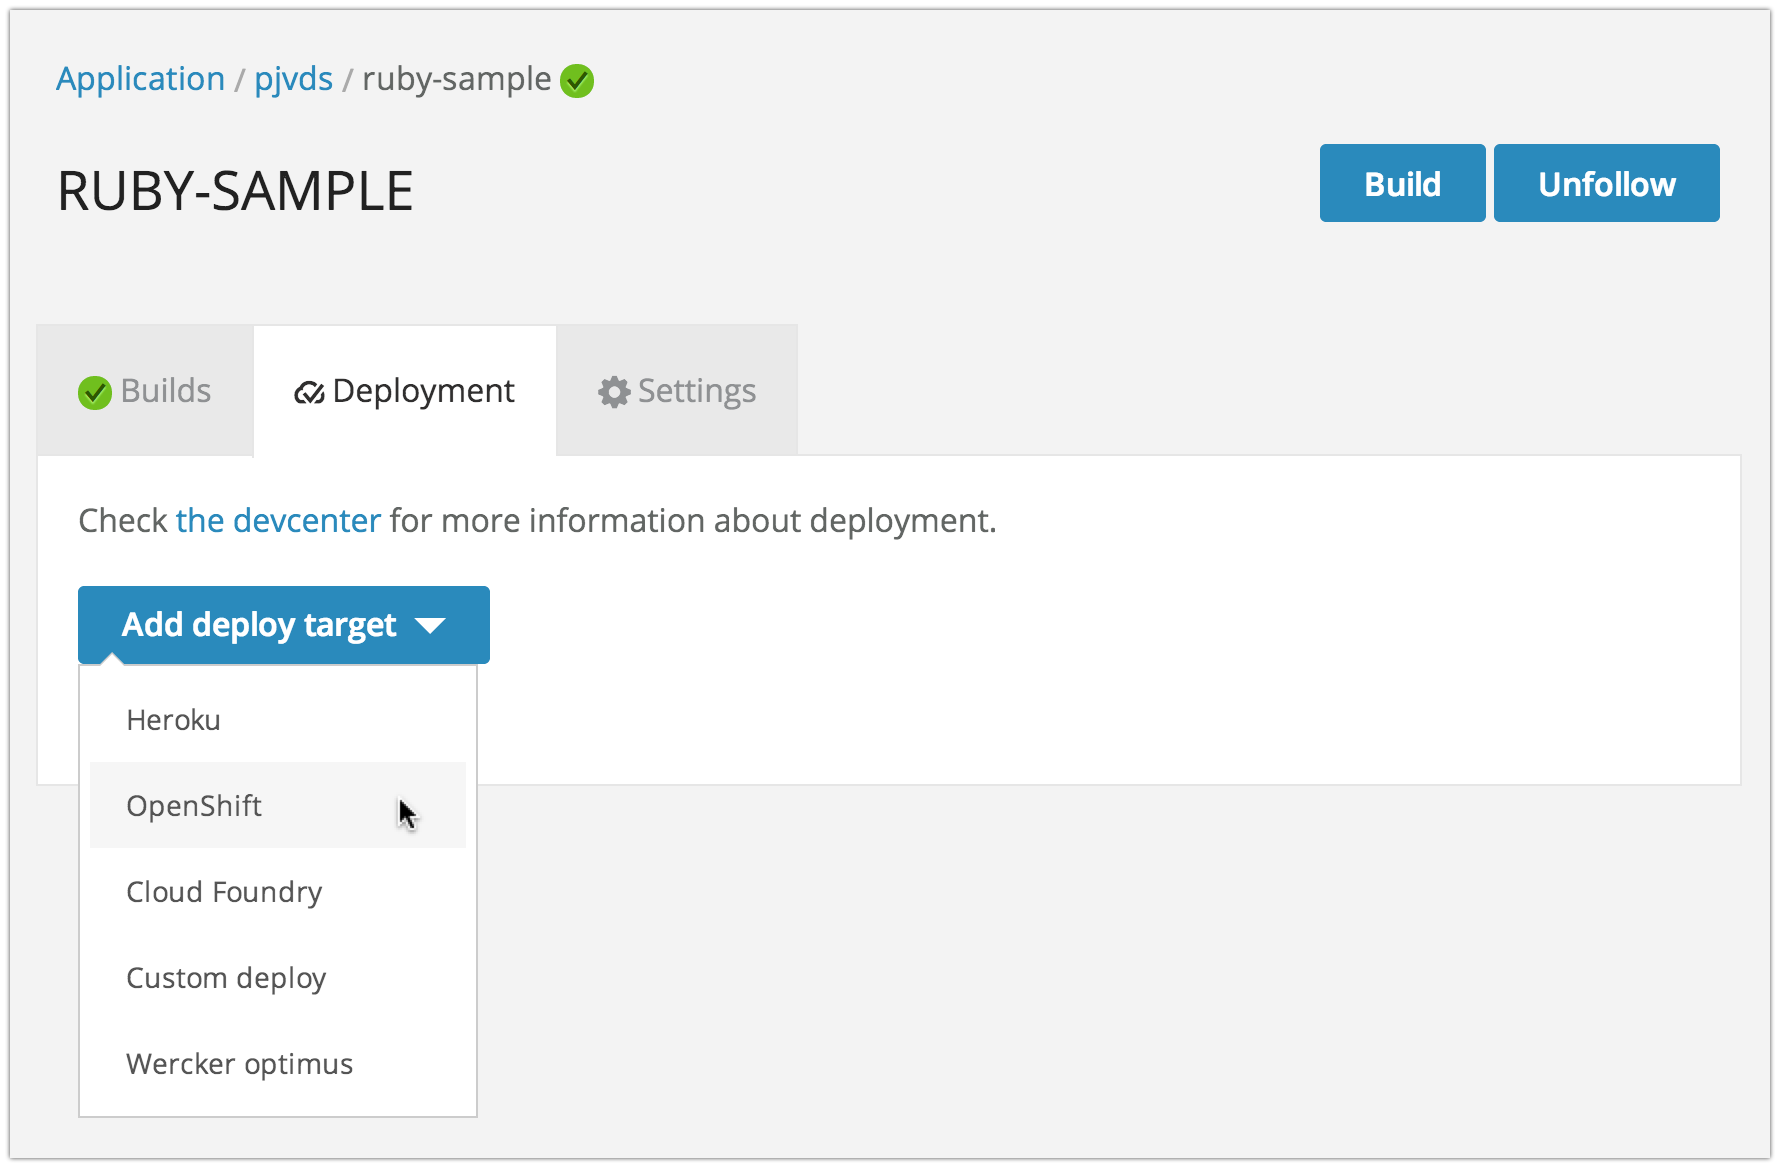
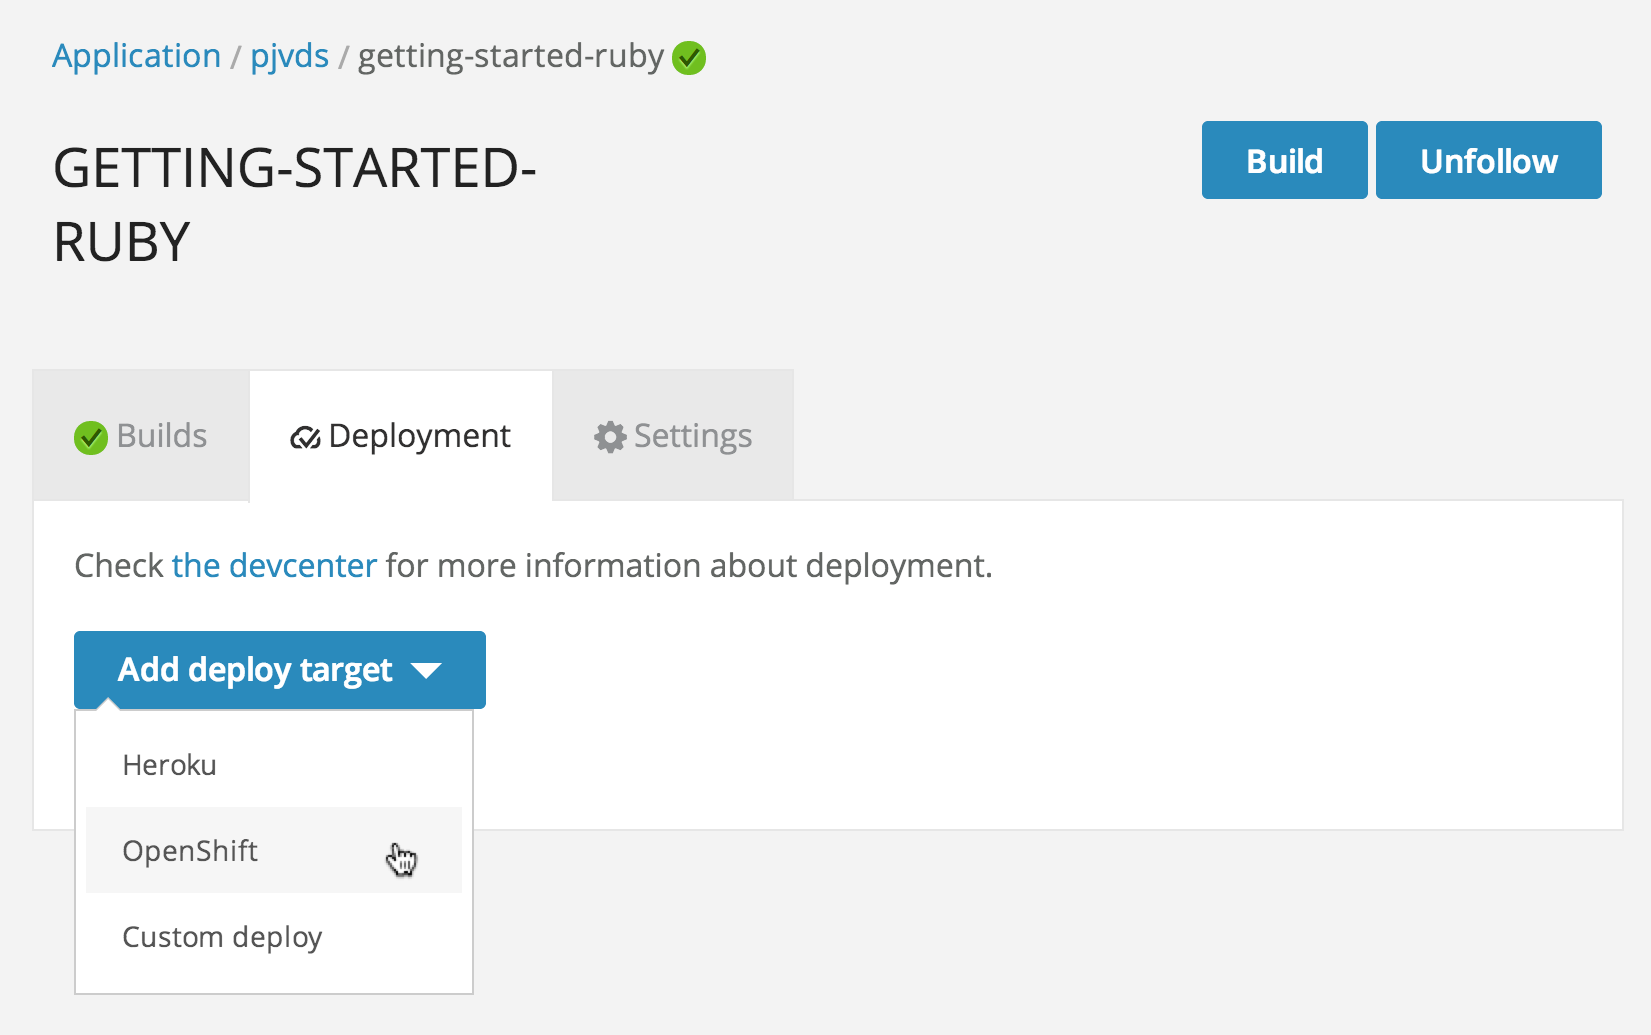
Replace 2nd screenshot with getting-started-ruby

diff --git a/source/articles/deployment/openshift.md b/source/articles/deployment/openshift.md
@@ -47,3 +47,5 @@ OpenShift allows other services, like wercker, to access information via a secre
 Enter the OpenShift authorization token and click `connect`.
 
 ![image](/assets/deployment-openshift/step4-authenticate.png)
+
+### 
